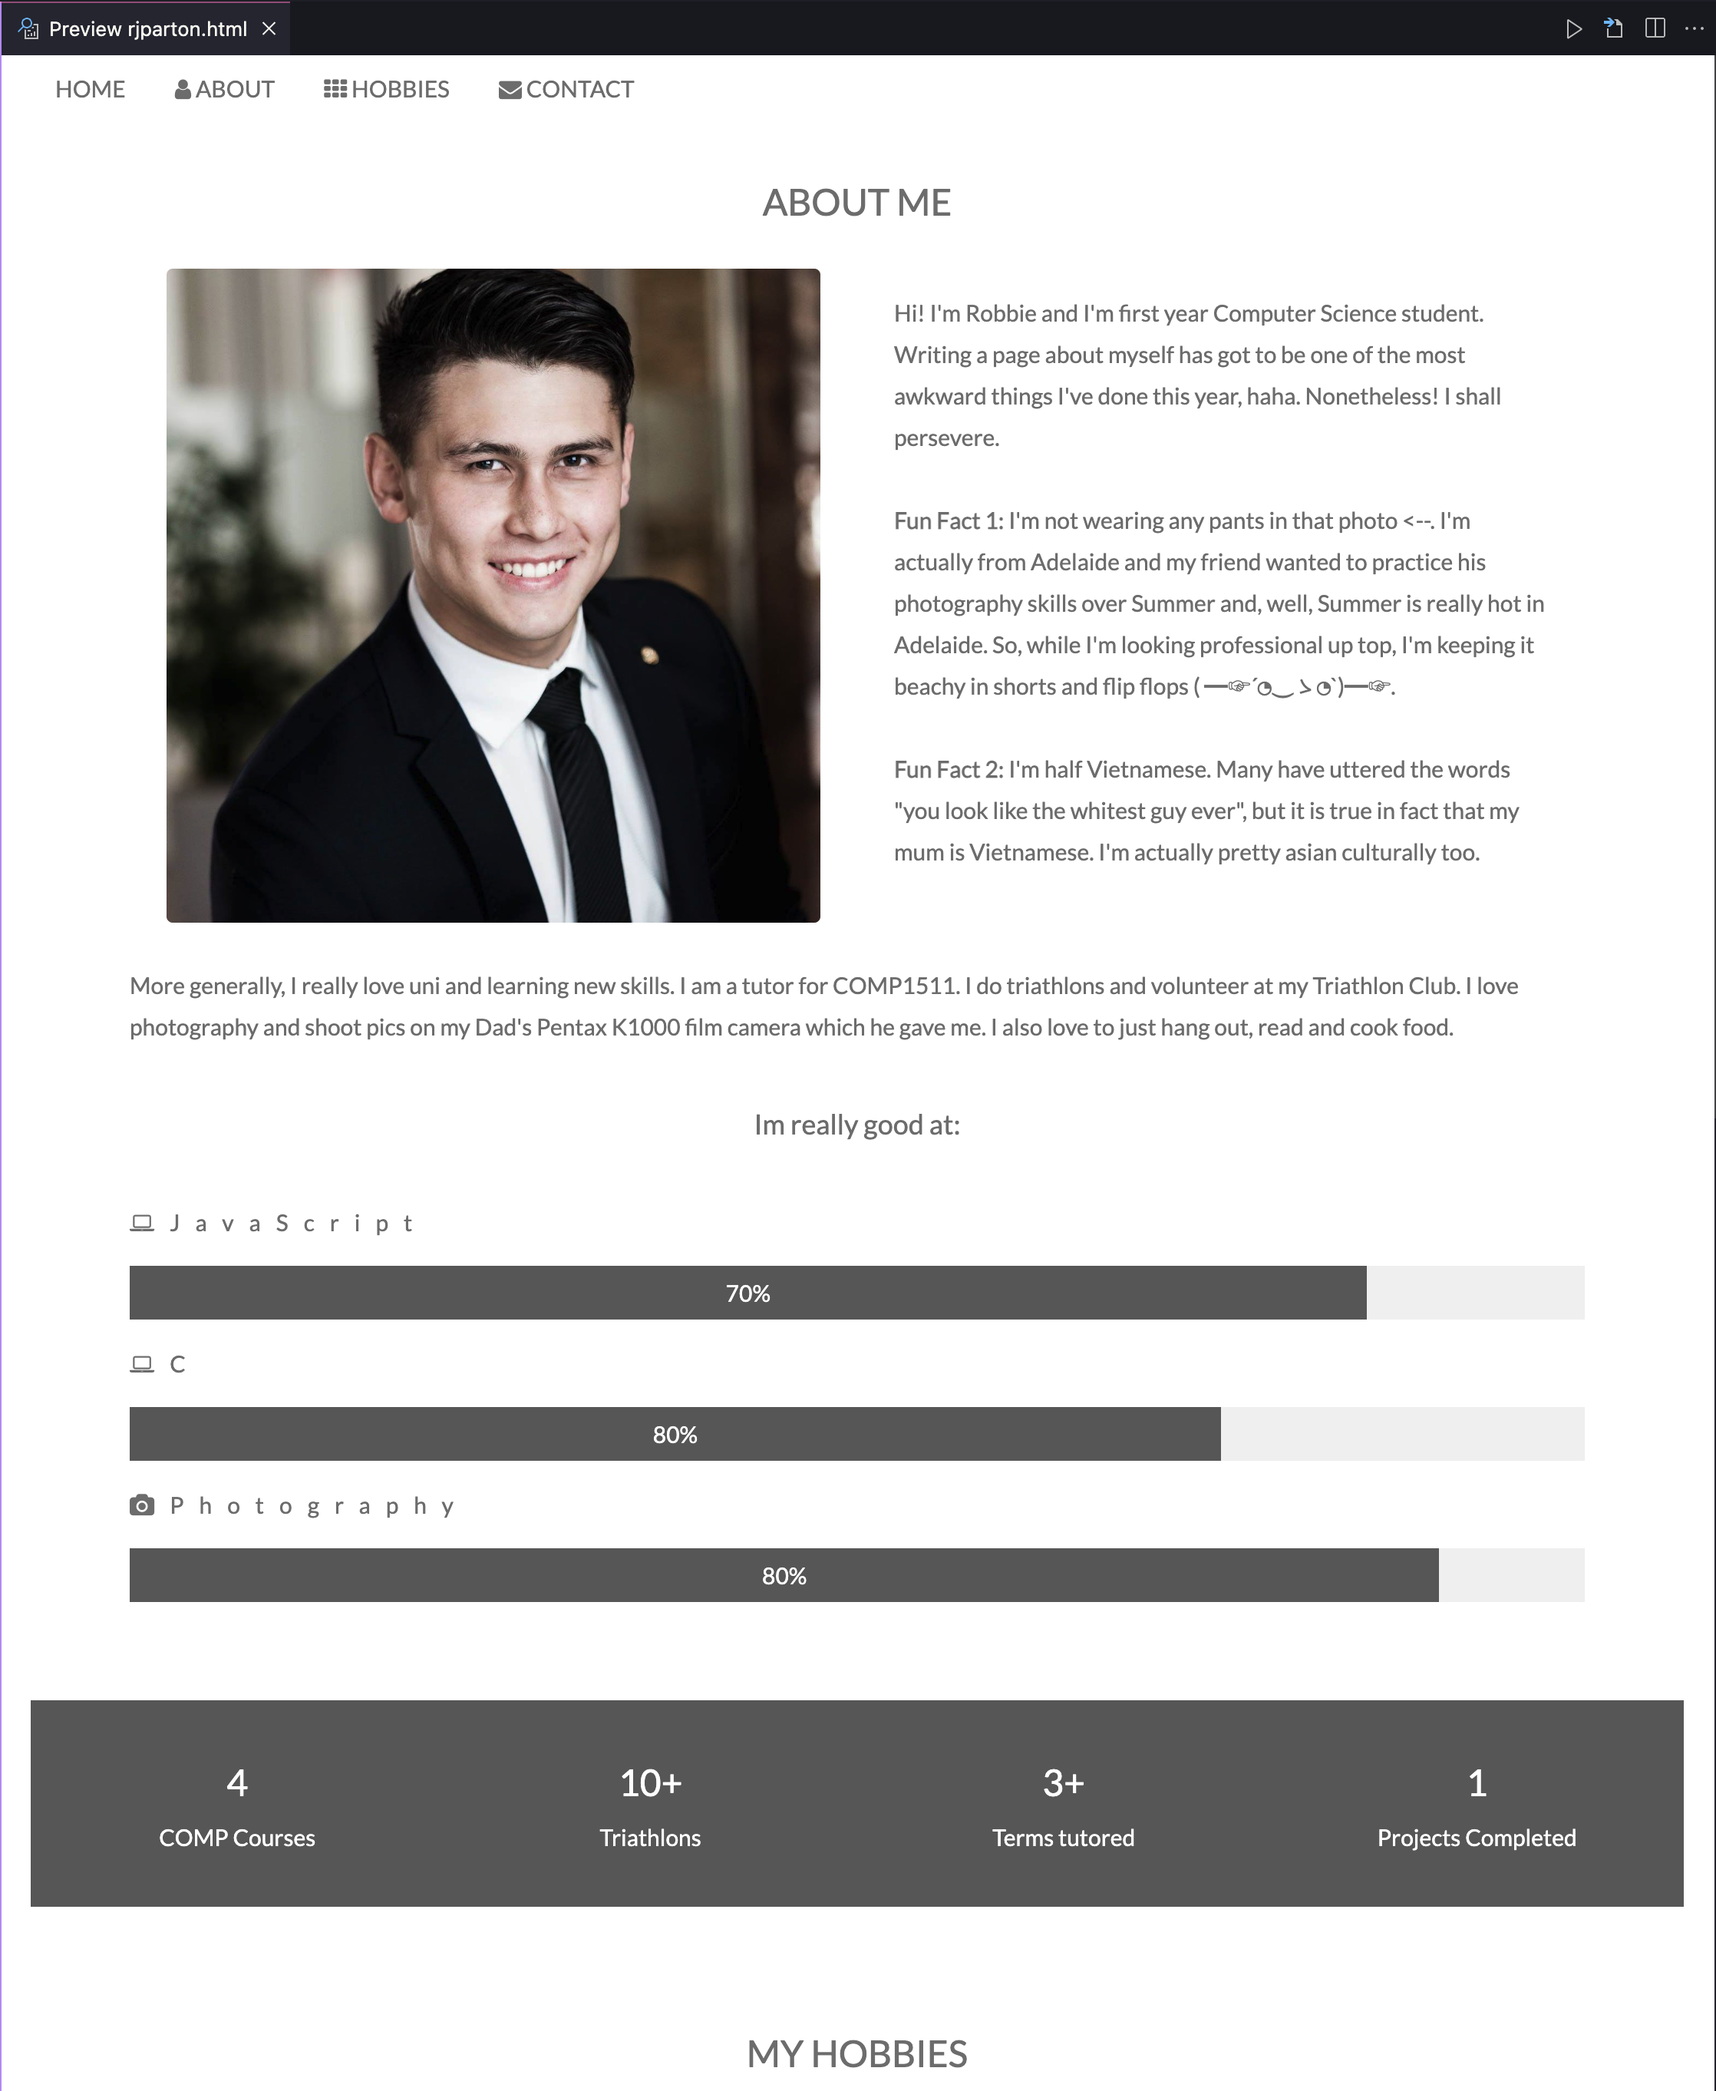
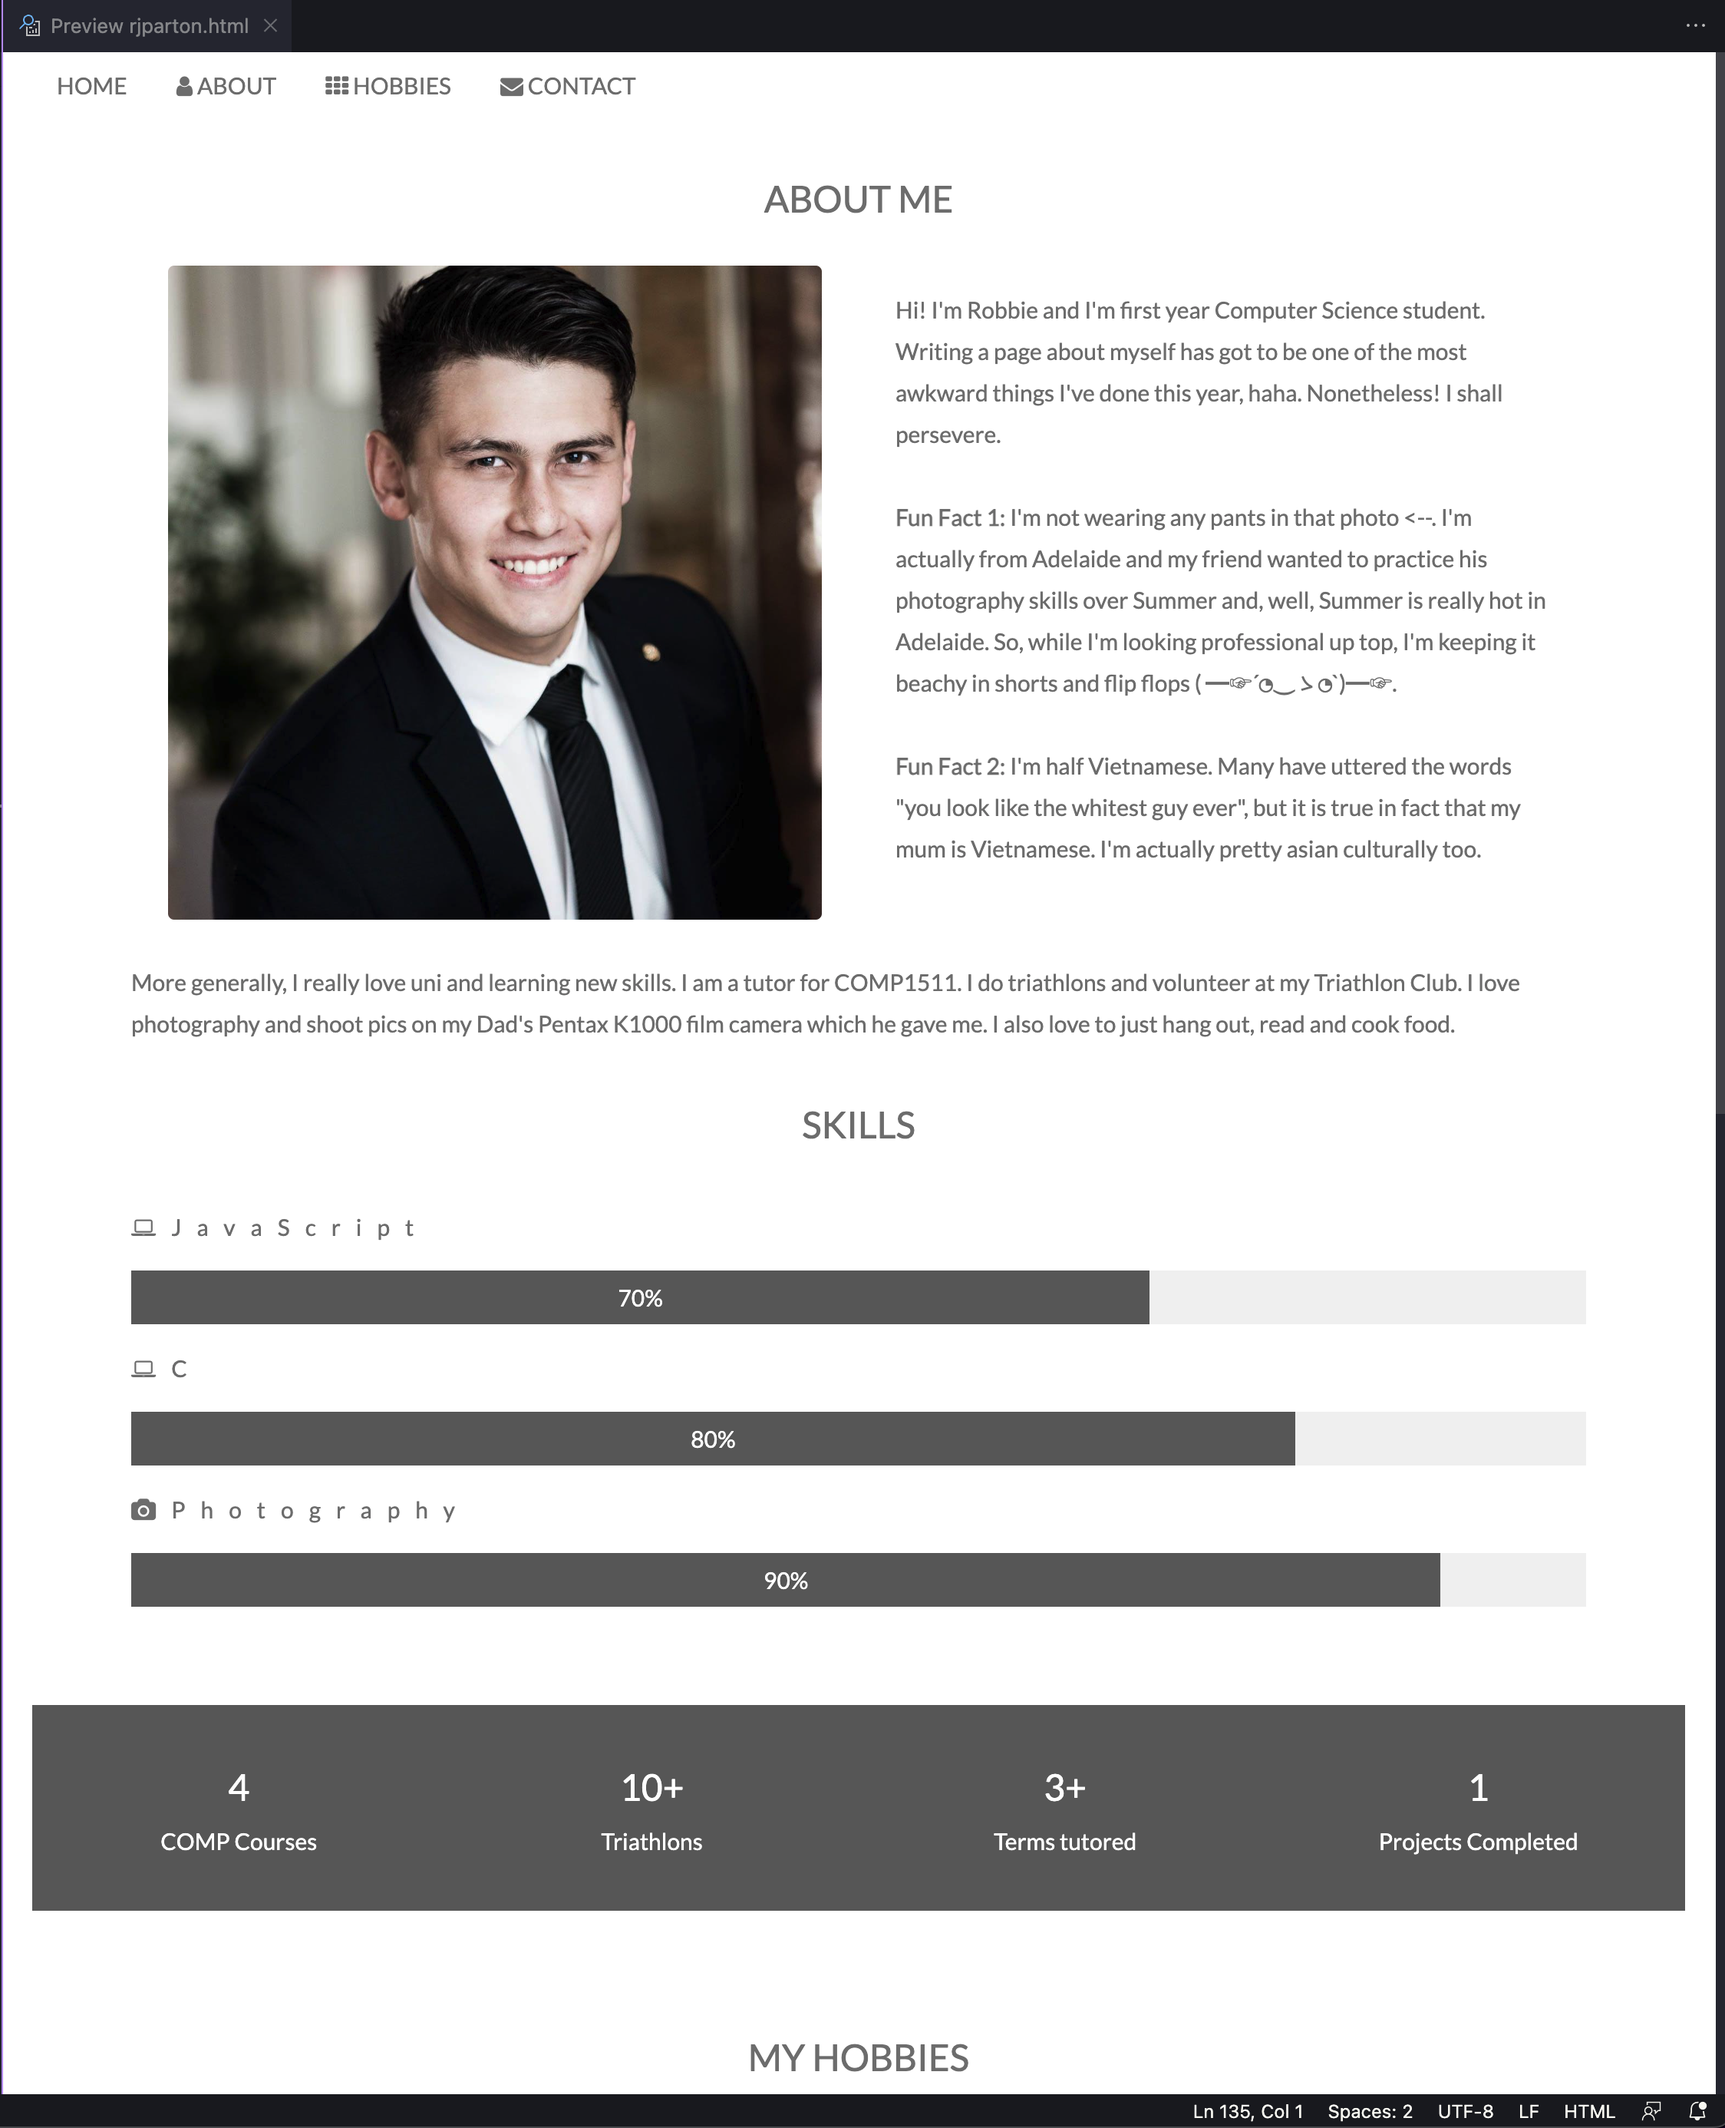
Adding updated screenshot

diff --git a/rjparton.html b/rjparton.html
@@ -117,18 +117,19 @@ body, html {
     I love photography and shoot pics on my Dad's Pentax K1000 film camera which he gave me. I also love to just hang out, read and cook food. 
 
   </p>
-  <p class="w3-large w3-center w3-padding-16">Im really good at:</p>
+  <!-- <p class="w3-large w3-center w3-padding-16">Im really good at:</p> -->
+  <h3 class="w3-center w3-padding-16">SKILLS</h3>
   <p class="w3-wide"><i class="fa fa-laptop"></i>JavaScript</p>
   <div class="w3-light-grey">
-    <div class="w3-container w3-padding-small w3-dark-grey w3-center" style="width:85%">70%</div>
+    <div class="w3-container w3-padding-small w3-dark-grey w3-center" style="width:70%">70%</div>
   </div>
   <p class="w3-wide"><i class="fa fa-laptop"></i>C</p>
   <div class="w3-light-grey"> 
-    <div class="w3-container w3-padding-small w3-dark-grey w3-center" style="width:75%">80%</div>
+    <div class="w3-container w3-padding-small w3-dark-grey w3-center" style="width:80%">80%</div>
   </div>
   <p class="w3-wide"><i class="fa fa-camera"></i>Photography</p>
   <div class="w3-light-grey">
-    <div class="w3-container w3-padding-small w3-dark-grey w3-center" style="width:90%">80%</div>
+    <div class="w3-container w3-padding-small w3-dark-grey w3-center" style="width:90%">90%</div>
   </div>
 </div>
 
